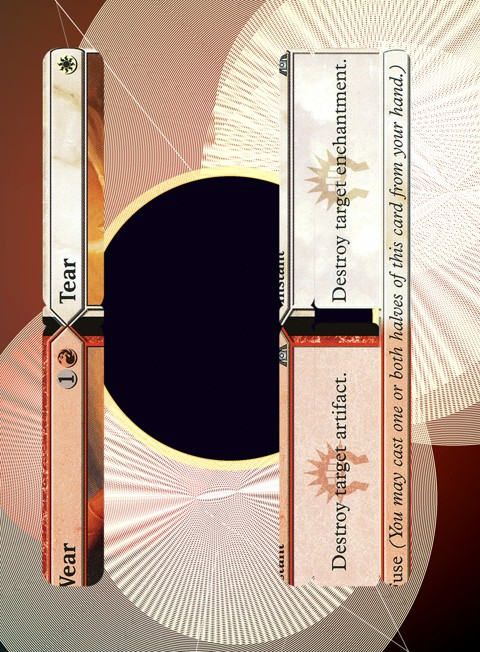
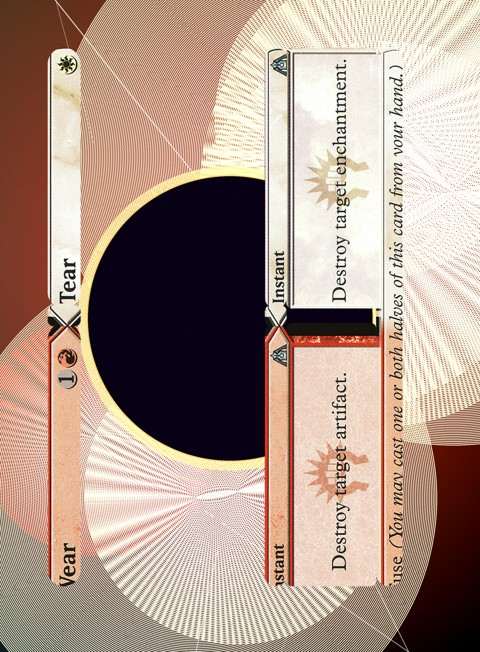
Calibrate masking geometries for Adventures, Battles, Rooms, and Split cards

diff --git a/backend/compositor.py b/backend/compositor.py
@@ -220,13 +220,13 @@ def detect_card_boxes(
     is_saga = (l_lower == "saga") or ("saga" in t_lower)
     is_class = (l_lower == "class") or ("class" in t_lower)
     is_case = (l_lower == "case") or ("case" in t_lower)
-    is_room = ("room" in t_lower) or (l_lower == "room") or (l_lower == "split" and "room" in t_lower)
-    is_split = (not is_room) and (
+    is_adventure = (l_lower == "adventure") or ("adventure" in t_lower) or ("adventure" in effects)
+    is_room = ("room" in t_lower) or (l_lower == "room")
+    is_split = (not is_room) and (not is_adventure) and (
         (l_lower == "split")
-        or ("//" in c_lower and any(kw in t_lower for kw in ["instant", "sorcery", "spell"]))
+        or ("//" in c_lower and l_lower != "adventure" and "adventure" not in t_lower and any(kw in t_lower for kw in ["instant", "sorcery", "spell"]))
     )
     is_battle = any(k in t_lower for k in ["battle", "siege"]) or (l_lower == "battle")
-    is_adventure = (l_lower == "adventure") or ("adventure" in t_lower) or ("adventure" in effects)
     is_planeswalker = "walker" in t_lower
     is_creature = any(k in t_lower for k in ["creature", "vehicle", "spacecraft"])
     is_station = any(k in t_lower for k in ["planet", "station", "spacecraft"]) or "station" in l_lower
@@ -302,19 +302,19 @@ def detect_card_boxes(
         stat_box = None
     elif is_room:
         # Room dual-door layout inside standard vertical card:
-        # Left Door (bottom): vertical title pill at bottom-left, rules box at bottom-right
-        # Right Door (top): vertical title pill at top-left, rules box at top-right
+        # Door B (bottom): vertical title pill at bottom-left, rules box at bottom-right
+        # Door A (top): vertical title pill at top-left, rules box at top-right
         # Vertical Type line (Enchantment — Room) at bottom-center. Central reminder text is excluded from mask.
-        title_pill = (int(35 * sx), int(515 * sy), int(140 * sx), int(965 * sy))
+        title_pill = (int(44 * sx), int(515 * sy), int(100 * sx), int(940 * sy))
         title_box = title_pill
-        type_box = (int(440 * sx), int(515 * sy), int(500 * sx), int(965 * sy))
-        rules_box = (int(500 * sx), int(515 * sy), int(665 * sx), int(965 * sy))
-        art_box = (int(140 * sx), int(44 * sy), int(440 * sx), int(965 * sy))
+        type_box = (int(400 * sx), int(515 * sy), int(448 * sx), int(940 * sy))
+        rules_box = (int(538 * sx), int(515 * sy), int(702 * sx), int(940 * sy))
+        art_box = (int(100 * sx), int(44 * sy), int(400 * sx), int(940 * sy))
         stat_box = None
         extra_boxes = [
-            {"box": (int(35 * sx), int(44 * sy), int(140 * sx), int(490 * sy)), "type": "pill"},
-            {"box": (int(440 * sx), int(44 * sy), int(500 * sx), int(100 * sy)), "type": "pill"},
-            {"box": (int(500 * sx), int(44 * sy), int(665 * sx), int(490 * sy)), "type": "rect"},
+            {"box": (int(44 * sx), int(44 * sy), int(100 * sx), int(490 * sy)), "type": "pill"},
+            {"box": (int(400 * sx), int(44 * sy), int(448 * sx), int(100 * sy)), "type": "pill"},
+            {"box": (int(538 * sx), int(44 * sy), int(702 * sx), int(490 * sy)), "type": "rect"},
         ]
     elif is_split:
         # Split card layout (Two variants: With Fuse and Without Fuse)
@@ -326,68 +326,68 @@ def detect_card_boxes(
         )
         if not has_fuse and card_img is not None:
             # Check right-middle probe on card frame
-            probe_p = card_img.getpixel((int(635 * sx), int(505 * sy)))
+            probe_p = card_img.getpixel((int(625 * sx), int(505 * sy)))
             if sum(probe_p[:3]) / 3.0 > 80:
                 has_fuse = True
 
         if has_fuse:
             # Split card WITH Fuse:
-            title_pill = (int(35 * sx), int(510 * sy), int(140 * sx), int(965 * sy))
+            title_pill = (int(44 * sx), int(515 * sy), int(100 * sx), int(965 * sy))
             title_box = title_pill
-            type_box = (int(440 * sx), int(510 * sy), int(500 * sx), int(965 * sy))
-            rules_box = (int(500 * sx), int(515 * sy), int(610 * sx), int(965 * sy))
-            art_box = (int(140 * sx), int(44 * sy), int(440 * sx), int(965 * sy))
+            type_box = (int(415 * sx), int(515 * sy), int(452 * sx), int(965 * sy))
+            rules_box = (int(452 * sx), int(515 * sy), int(605 * sx), int(965 * sy))
+            art_box = (int(100 * sx), int(44 * sy), int(415 * sx), int(965 * sy))
             extra_boxes = [
                 # Top half components
-                {"box": (int(35 * sx), int(44 * sy), int(140 * sx), int(495 * sy)), "type": "pill"},
-                {"box": (int(440 * sx), int(44 * sy), int(500 * sx), int(495 * sy)), "type": "pill"},
-                {"box": (int(500 * sx), int(44 * sy), int(610 * sx), int(490 * sy)), "type": "rect"},
+                {"box": (int(44 * sx), int(44 * sy), int(100 * sx), int(490 * sy)), "type": "pill"},
+                {"box": (int(415 * sx), int(44 * sy), int(452 * sx), int(490 * sy)), "type": "pill"},
+                {"box": (int(452 * sx), int(44 * sy), int(605 * sx), int(490 * sy)), "type": "rect"},
                 # Center connection bridges
-                {"box": (int(35 * sx), int(485 * sy), int(140 * sx), int(520 * sy)), "type": "rect"},
-                {"box": (int(440 * sx), int(485 * sy), int(500 * sx), int(520 * sy)), "type": "rect"},
+                {"box": (int(44 * sx), int(485 * sy), int(100 * sx), int(520 * sy)), "type": "rect"},
+                {"box": (int(415 * sx), int(485 * sy), int(452 * sx), int(520 * sy)), "type": "rect"},
                 # Fuse full-height pill on right
-                {"box": (int(610 * sx), int(44 * sy), int(665 * sx), int(965 * sy)), "type": "pill"},
+                {"box": (int(605 * sx), int(44 * sy), int(650 * sx), int(965 * sy)), "type": "pill"},
             ]
         else:
             # Split card WITHOUT Fuse:
-            title_pill = (int(35 * sx), int(515 * sy), int(140 * sx), int(965 * sy))
+            title_pill = (int(44 * sx), int(515 * sy), int(100 * sx), int(936 * sy))
             title_box = title_pill
-            type_box = (int(440 * sx), int(515 * sy), int(500 * sx), int(965 * sy))
-            rules_box = (int(500 * sx), int(515 * sy), int(665 * sx), int(965 * sy))
-            art_box = (int(140 * sx), int(44 * sy), int(440 * sx), int(965 * sy))
+            type_box = (int(400 * sx), int(515 * sy), int(448 * sx), int(936 * sy))
+            rules_box = (int(452 * sx), int(515 * sy), int(654 * sx), int(936 * sy))
+            art_box = (int(100 * sx), int(44 * sy), int(400 * sx), int(936 * sy))
             extra_boxes = [
-                {"box": (int(35 * sx), int(44 * sy), int(140 * sx), int(490 * sy)), "type": "pill"},
-                {"box": (int(440 * sx), int(44 * sy), int(500 * sx), int(490 * sy)), "type": "pill"},
-                {"box": (int(500 * sx), int(44 * sy), int(665 * sx), int(490 * sy)), "type": "rect"},
+                {"box": (int(44 * sx), int(44 * sy), int(100 * sx), int(465 * sy)), "type": "pill"},
+                {"box": (int(400 * sx), int(44 * sy), int(448 * sx), int(465 * sy)), "type": "pill"},
+                {"box": (int(452 * sx), int(44 * sy), int(654 * sx), int(465 * sy)), "type": "rect"},
             ]
         stat_box = None
     elif is_battle:
         # Battle - Siege landscape format inside standard vertical card
         # Left vertical title column, vertical type line, single continuous rules text box, and 8-pointed defense star
-        title_pill = (int(40 * sx), int(50 * sy), int(98 * sx), int(990 * sy))
+        title_pill = (int(44 * sx), int(52 * sy), int(100 * sx), int(908 * sy))
         title_box = title_pill
-        type_box = (int(556 * sx), int(50 * sy), int(616 * sx), int(990 * sy))
-        rules_box = (int(618 * sx), int(120 * sy), int(690 * sx), int(990 * sy))
-        art_box = (int(98 * sx), int(50 * sy), int(556 * sx), int(990 * sy))
+        type_box = (int(574 * sx), int(52 * sy), int(632 * sx), int(908 * sy))
+        rules_box = (int(636 * sx), int(70 * sy), int(702 * sx), int(890 * sy))
+        art_box = (int(100 * sx), int(52 * sy), int(574 * sx), int(908 * sy))
         stat_polygon = [
-            (int(688 * sx), int(23 * sy)),
-            (int(700 * sx), int(36 * sy)),
-            (int(725 * sx), int(30 * sy)),
-            (int(717 * sx), int(54 * sy)),
-            (int(727 * sx), int(72 * sy)),
-            (int(717 * sx), int(90 * sy)),
-            (int(725 * sx), int(114 * sy)),
-            (int(700 * sx), int(108 * sy)),
-            (int(688 * sx), int(128 * sy)),
-            (int(676 * sx), int(108 * sy)),
-            (int(658 * sx), int(114 * sy)),
-            (int(662 * sx), int(90 * sy)),
-            (int(650 * sx), int(72 * sy)),
-            (int(662 * sx), int(54 * sy)),
-            (int(651 * sx), int(30 * sy)),
-            (int(676 * sx), int(36 * sy)),
+            (int(671 * sx), int(14 * sy)),
+            (int(681 * sx), int(25 * sy)),
+            (int(702 * sx), int(21 * sy)),
+            (int(695 * sx), int(38 * sy)),
+            (int(705 * sx), int(47 * sy)),
+            (int(695 * sx), int(57 * sy)),
+            (int(702 * sx), int(73 * sy)),
+            (int(681 * sx), int(69 * sy)),
+            (int(671 * sx), int(80 * sy)),
+            (int(661 * sx), int(69 * sy)),
+            (int(640 * sx), int(73 * sy)),
+            (int(647 * sx), int(57 * sy)),
+            (int(637 * sx), int(47 * sy)),
+            (int(647 * sx), int(38 * sy)),
+            (int(640 * sx), int(21 * sy)),
+            (int(661 * sx), int(25 * sy)),
         ]
-        stat_box = (int(650 * sx), int(23 * sy), int(727 * sx), int(128 * sy))
+        stat_box = (int(637 * sx), int(14 * sy), int(705 * sx), int(80 * sy))
     elif is_adventure:
         # Adventure split layout (Left: Adventure Spell Scroll, Right: Creature text box)
         title_pill = (int(46 * sx), int(50 * sy), int(698 * sx), int(110 * sy))

diff --git a/tests/test_api.py b/tests/test_api.py
@@ -84,18 +84,20 @@ class TestFastAPIEndpoints(unittest.TestCase):
             prompt="An anime girl",
         )
 
-        with patch("backend.generator.MockProceduralGenerator.generate_art", new_callable=AsyncMock) as mock_gen:
-            mock_gen.return_value = None  # Will fail at composite step or we can mock compositor
+        mock_generator_instance = AsyncMock()
+        mock_generator_instance.generate_art = AsyncMock(return_value=None)
+
+        with patch("backend.app.get_generator", return_value=mock_generator_instance):
             with patch("backend.compositor.composite_card") as mock_comp, patch("backend.compositor.save_card_outputs") as mock_save:
                 mock_comp.return_value = MagicMock()
                 mock_save.return_value = ("output/cards/card_test_global.png", "output/thumbnails/card_test_global.jpg")
                 asyncio.run(process_single_card(card))
 
-            mock_gen.assert_called_once()
-            called_prompt = mock_gen.call_args.kwargs["prompt"]
-            self.assertEqual(called_prompt, "studio ghibli watercolor An anime girl")
-            # Card object itself preserves clean prompt
-            self.assertEqual(card.prompt, "An anime girl")
+        mock_generator_instance.generate_art.assert_called_once()
+        called_prompt = mock_generator_instance.generate_art.call_args.kwargs["prompt"]
+        self.assertEqual(called_prompt, "studio ghibli watercolor An anime girl")
+        # Card object itself preserves clean prompt
+        self.assertEqual(card.prompt, "An anime girl")
 
     def setUp(self):
         import tempfile

diff --git a/backend/generate_samples.py b/backend/generate_samples.py
@@ -434,12 +434,13 @@ async def generate_all_samples(
         # Layout-specific art sizing, rotation, and focal positioning
         t_lower = (card_data.type_line or "").lower()
         l_lower = (card_data.layout or "").lower()
-        c_lower = (card_data.name or "").lower()
+        c_lower = (name or "").lower()
         is_battle = any(k in t_lower for k in ["battle", "siege"]) or (l_lower == "battle")
-        is_room = ("room" in t_lower) or (l_lower == "room") or (l_lower == "split" and "room" in t_lower)
-        is_split = (not is_room) and (
+        is_room = ("room" in t_lower) or (l_lower == "room")
+        is_adventure = (l_lower == "adventure") or ("adventure" in t_lower)
+        is_split = (not is_room) and (not is_adventure) and (
             (l_lower == "split")
-            or ("//" in c_lower and any(kw in t_lower for kw in ["instant", "sorcery", "spell"]))
+            or ("//" in c_lower and l_lower != "adventure" and "adventure" not in t_lower and any(kw in t_lower for kw in ["instant", "sorcery", "spell"]))
         )
         is_saga = ("saga" in t_lower) or (l_lower == "saga")
         is_class_or_case = any(k in t_lower for k in ["class", "case"]) or (l_lower in ["class", "case"])

diff --git a/backend/app.py b/backend/app.py
@@ -257,10 +257,11 @@ async def process_single_card(card: CardItem):
         l_lower = (card_data.layout or "").lower()
         c_lower = (card.card_name or "").lower()
         is_battle = any(k in t_lower for k in ["battle", "siege"]) or (l_lower == "battle")
-        is_room = ("room" in t_lower) or (l_lower == "room") or (l_lower == "split" and "room" in t_lower)
-        is_split = (not is_room) and (
+        is_room = ("room" in t_lower) or (l_lower == "room")
+        is_adventure = (l_lower == "adventure") or ("adventure" in t_lower)
+        is_split = (not is_room) and (not is_adventure) and (
             (l_lower == "split")
-            or ("//" in c_lower and any(kw in t_lower for kw in ["instant", "sorcery", "spell"]))
+            or ("//" in c_lower and l_lower != "adventure" and "adventure" not in t_lower and any(kw in t_lower for kw in ["instant", "sorcery", "spell"]))
         )
         is_saga = ("saga" in t_lower) or (l_lower == "saga")
         is_class_or_case = any(k in t_lower for k in ["class", "case"]) or (l_lower in ["class", "case"])
